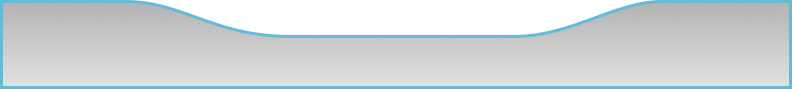
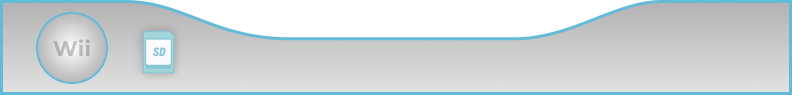
Переименовал все файлы на правильный лад, ограничил сркол, настроил ветки правильно, так же заменил все иконки приложений и нижней панели

diff --git a/src/components/ScreeonStart.jsx b/src/components/ScreeonStart.jsx
@@ -1,21 +1,21 @@
 import { useState } from 'react'
 import fonepustcard from '../assets/fonepustcard.svg'
-import mario from '../assets/mario.png'
+import mario from '../assets/mariocard.png'
 import profil from '../assets/profil.png'
 import settings from '../assets/settings.png'
 import panel from '../assets/panel.png'
 import '../App.css'
 
-function Screeonstart() {
-    const [count, setCount] = useState(0)
+function ScreeonStart() {
+
 
     return (
         <>
             <div
                 className="screenonstart w-[792px] h-[405px] bg-gray-200 transform translate-x-[564px] translate-y-[165px]">
                 <div className={"screen-block pt-[20px] flex flex-wrap justify-between px-[95px] gap-[7px]"}>
-                    <img className={'card w-[144px] h-[86px] rounded-lg'} src={profil}/>
                     <img className={'card w-[144px] h-[86px] rounded-lg'} src={mario}/>
+                    <img className={'card w-[144px] h-[86px] rounded-lg'} src={profil}/>
                     <img className={'card w-[144px] h-[86px] rounded-lg'} src={settings}/>
                     <img className={'card w-[144px] h-[86px] rounded-lg'} src={fonepustcard}/>
                     <img className={'card w-[144px] h-[86px] rounded-lg'} src={fonepustcard}/>
@@ -37,4 +37,4 @@ function Screeonstart() {
     )
 }
 
-export default Screeonstart
+export default ScreeonStart

diff --git a/src/App.jsx b/src/App.jsx
@@ -1,29 +1,13 @@
-// import { useState } from 'react'
-// import fon from "./assets/fon.png"
-// import reactLogo from './assets/react.svg'
-// import viteLogo from '/vite.svg'
-// import './App.css'
-//
-// function App() {
-//   const [count, setCount] = useState(0)
-//
-//   return (
-//     <>
-//       <div style={{
-//           backgroundImage: `url(${fon})`,
-//           backgroundRepeat: 'no-repeat',
-//           backgroundPosition: 'center',
-//           backgroundSize: 'cover',
-//           width: '100vw',
-//           height: '100vh',
-//       }} className='bg'>
-//
-//       </div>
-//
-//
-//
-//     </>
-//   )
-// }
-//
-// export default App
+import { StrictMode } from 'react';
+import Glav from './pages/Glav.jsx';
+import '../index.css';
+
+function App() {
+    return (
+        <StrictMode>
+            <Glav />
+        </StrictMode>
+    );
+}
+
+export default App;

diff --git a/src/components/Pult.jsx b/src/components/Pult.jsx
@@ -1,7 +1,7 @@
 import { useState } from 'react'
-import { updateStatus, status } from  '../data/pultlogic.jsx'
-import Screenoff from './Screenoff.jsx';
-import Screenonstart from './Screeonstart.jsx';
+import { updateStatus, status } from '../data/PultLogic.jsx'
+import ScreenOff from './ScreenOff.jsx';
+import Screenonstart from './ScreeonStart.jsx';
 
 import btnstart from '../assets/btnstart.png'
 import bigbtn from '../assets/bigbtn.png'
@@ -50,7 +50,7 @@ function Pult() {
             </div>
             <img className={'palec absolute left-[1490px] top-[580px]  rotate-[-11deg] z-[2] '} src={palec}
                  alt="plus"/>
-            {currentStatus === 2 ? <Screenonstart /> : <Screenoff />}
+            {currentStatus === 2 ? <Screenonstart /> : <ScreenOff />}
         </>
     )
 }

diff --git a/src/main.jsx b/src/main.jsx
@@ -1,13 +1,10 @@
-import { StrictMode } from 'react'
-import { createRoot } from 'react-dom/client'
-// import App from './App.jsx'
-// import btnstart from './components/btnstart.jsx'
-import './index.css'
+import { StrictMode } from 'react';
+import { createRoot } from 'react-dom/client';
+import App from './App.jsx';
+import '../index.css';
 
 createRoot(document.getElementById('root')).render(
-  <StrictMode>
-    <App />
-  </StrictMode>,
-)
-
-
+    <StrictMode>
+        <App />
+    </StrictMode>
+);

diff --git a/src/pages/Glav.jsx b/src/pages/Glav.jsx
@@ -1,8 +1,8 @@
 import { StrictMode } from 'react';
 import { createRoot } from 'react-dom/client';
-import Pult from '../components/pult.jsx';
-import Screenoff from '../components/Screenoff.jsx';
-import Screenonstart from '../components/Screeonstart.jsx';
+import Pult from '../components/Pult.jsx';
+import ScreenOff from '../components/ScreenOff.jsx';
+import Screenonstart from '../components/ScreeonStart.jsx';
 import '../index.css';
 
 createRoot(document.getElementById('root')).render(

diff --git a/src/components/ScreenOff.jsx b/src/components/ScreenOff.jsx
@@ -2,8 +2,8 @@ import { useState } from 'react'
 
 import '../App.css'
 
-function Screenoff() {
-    const [count, setCount] = useState(0)
+function ScreenOff() {
+
 
     return (
         <>
@@ -17,4 +17,4 @@ function Screenoff() {
     )
 }
 
-export default Screenoff
+export default ScreenOff

diff --git a/src/index.css b/src/index.css
@@ -34,9 +34,10 @@ body {
   background: url("./src/assets/bg.png");
   background-color: #242424;
   background-size: 100% 100%;
+  width: 1920px;
   height: 991px;
   background-repeat: no-repeat;
-
+  overflow:hidden;
 }
 
 h1 {

diff --git a/index.html b/index.html
@@ -8,6 +8,6 @@
   </head>
   <body >
     <div id="root"></div>
-    <script type="module" src="./src/pages/glav.jsx"></script>
+    <script type="module" src="src/pages/Glav.jsx"></script>
   </body>
 </html>
